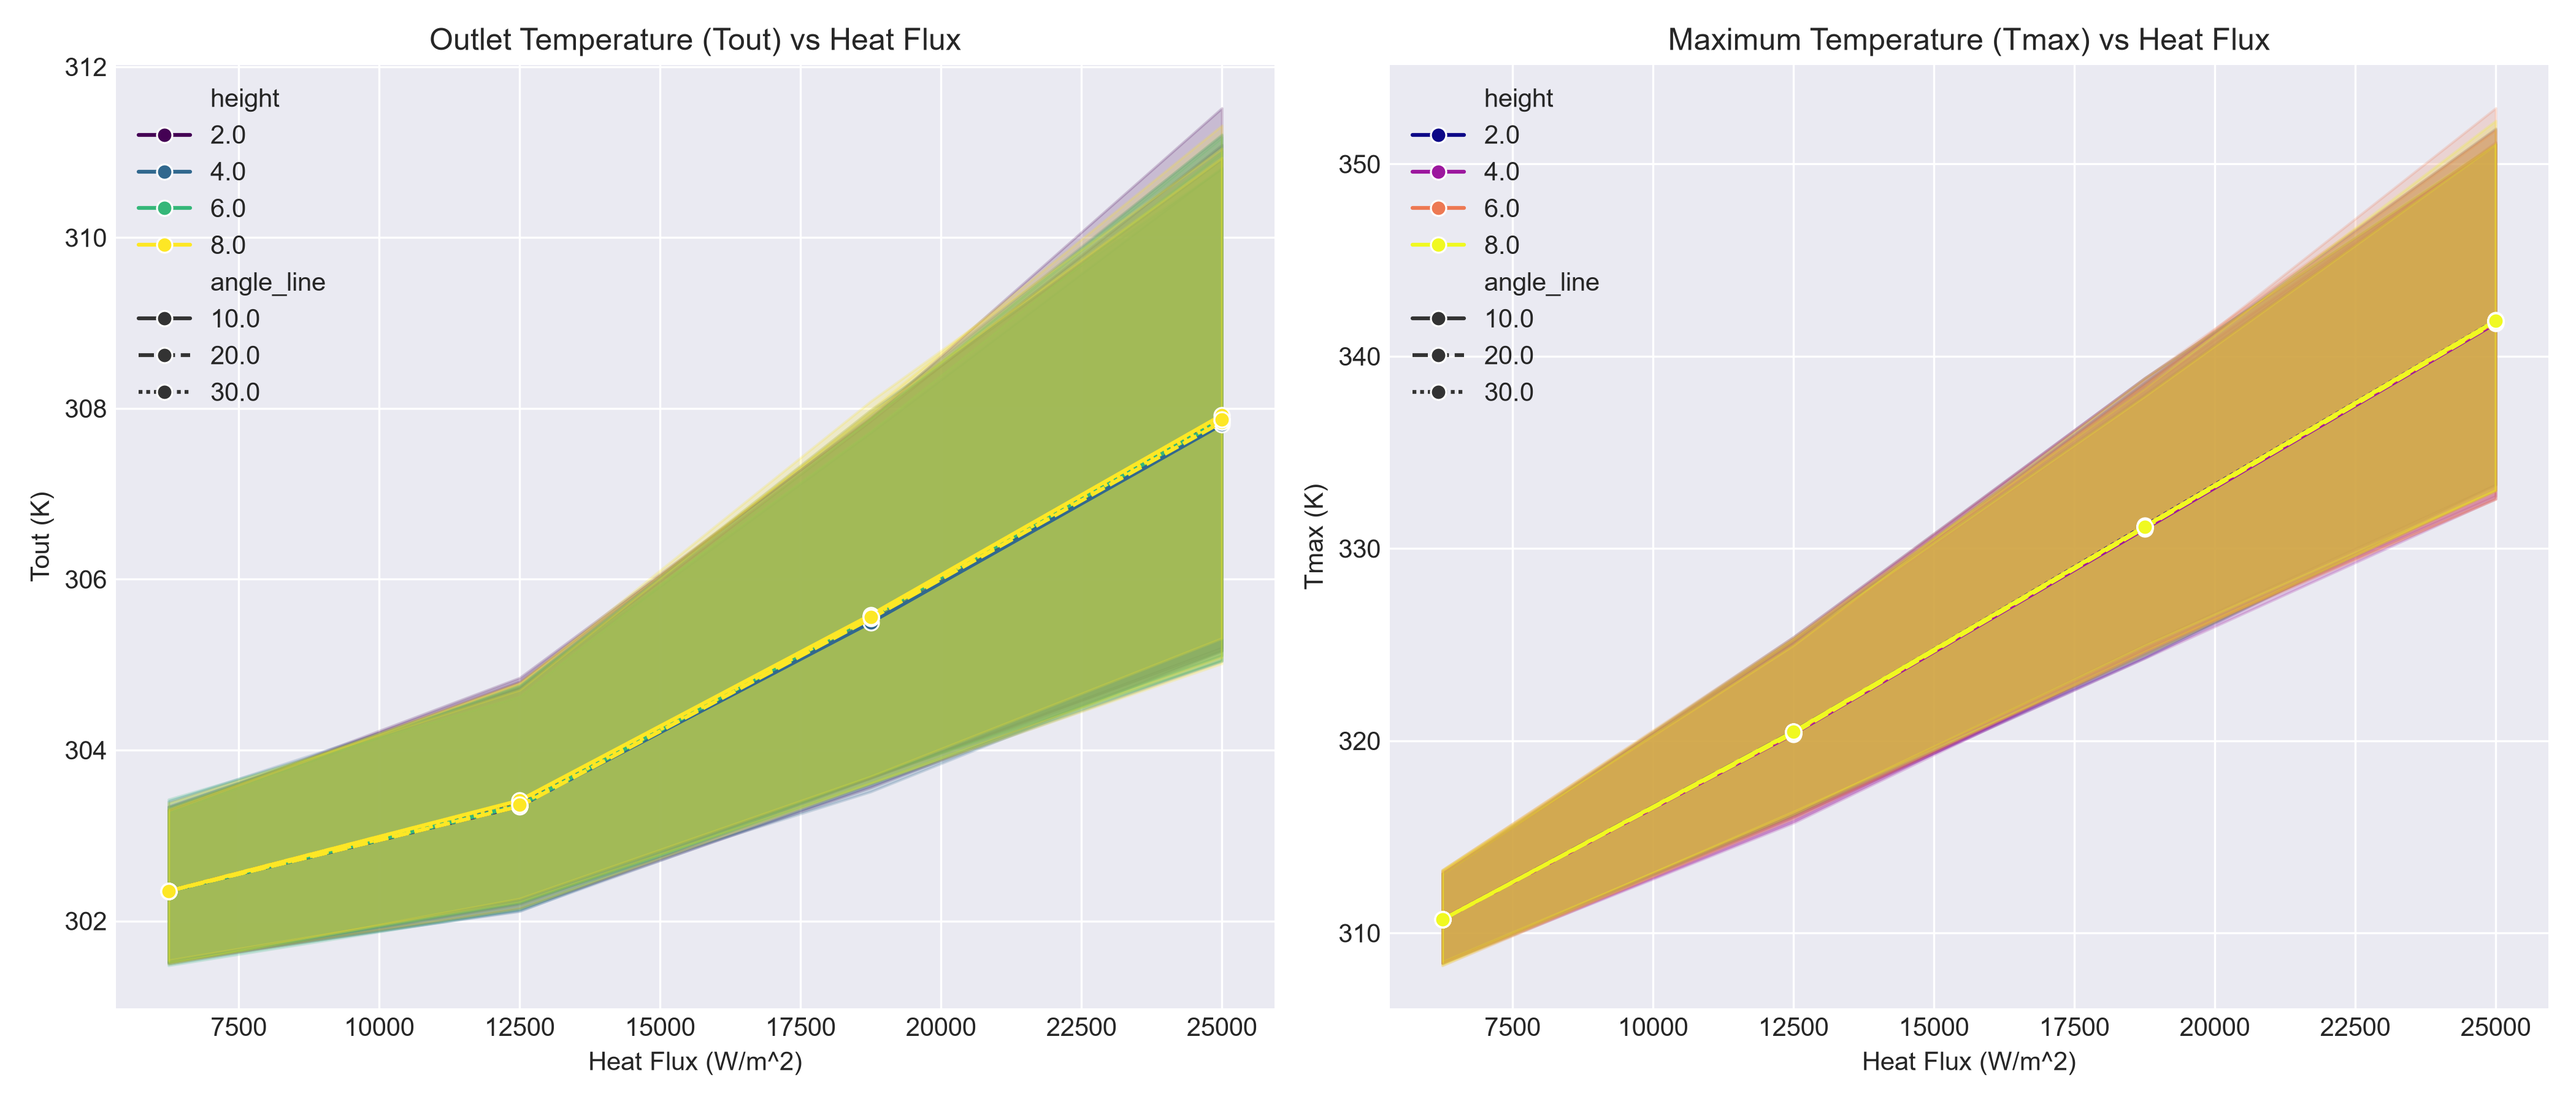
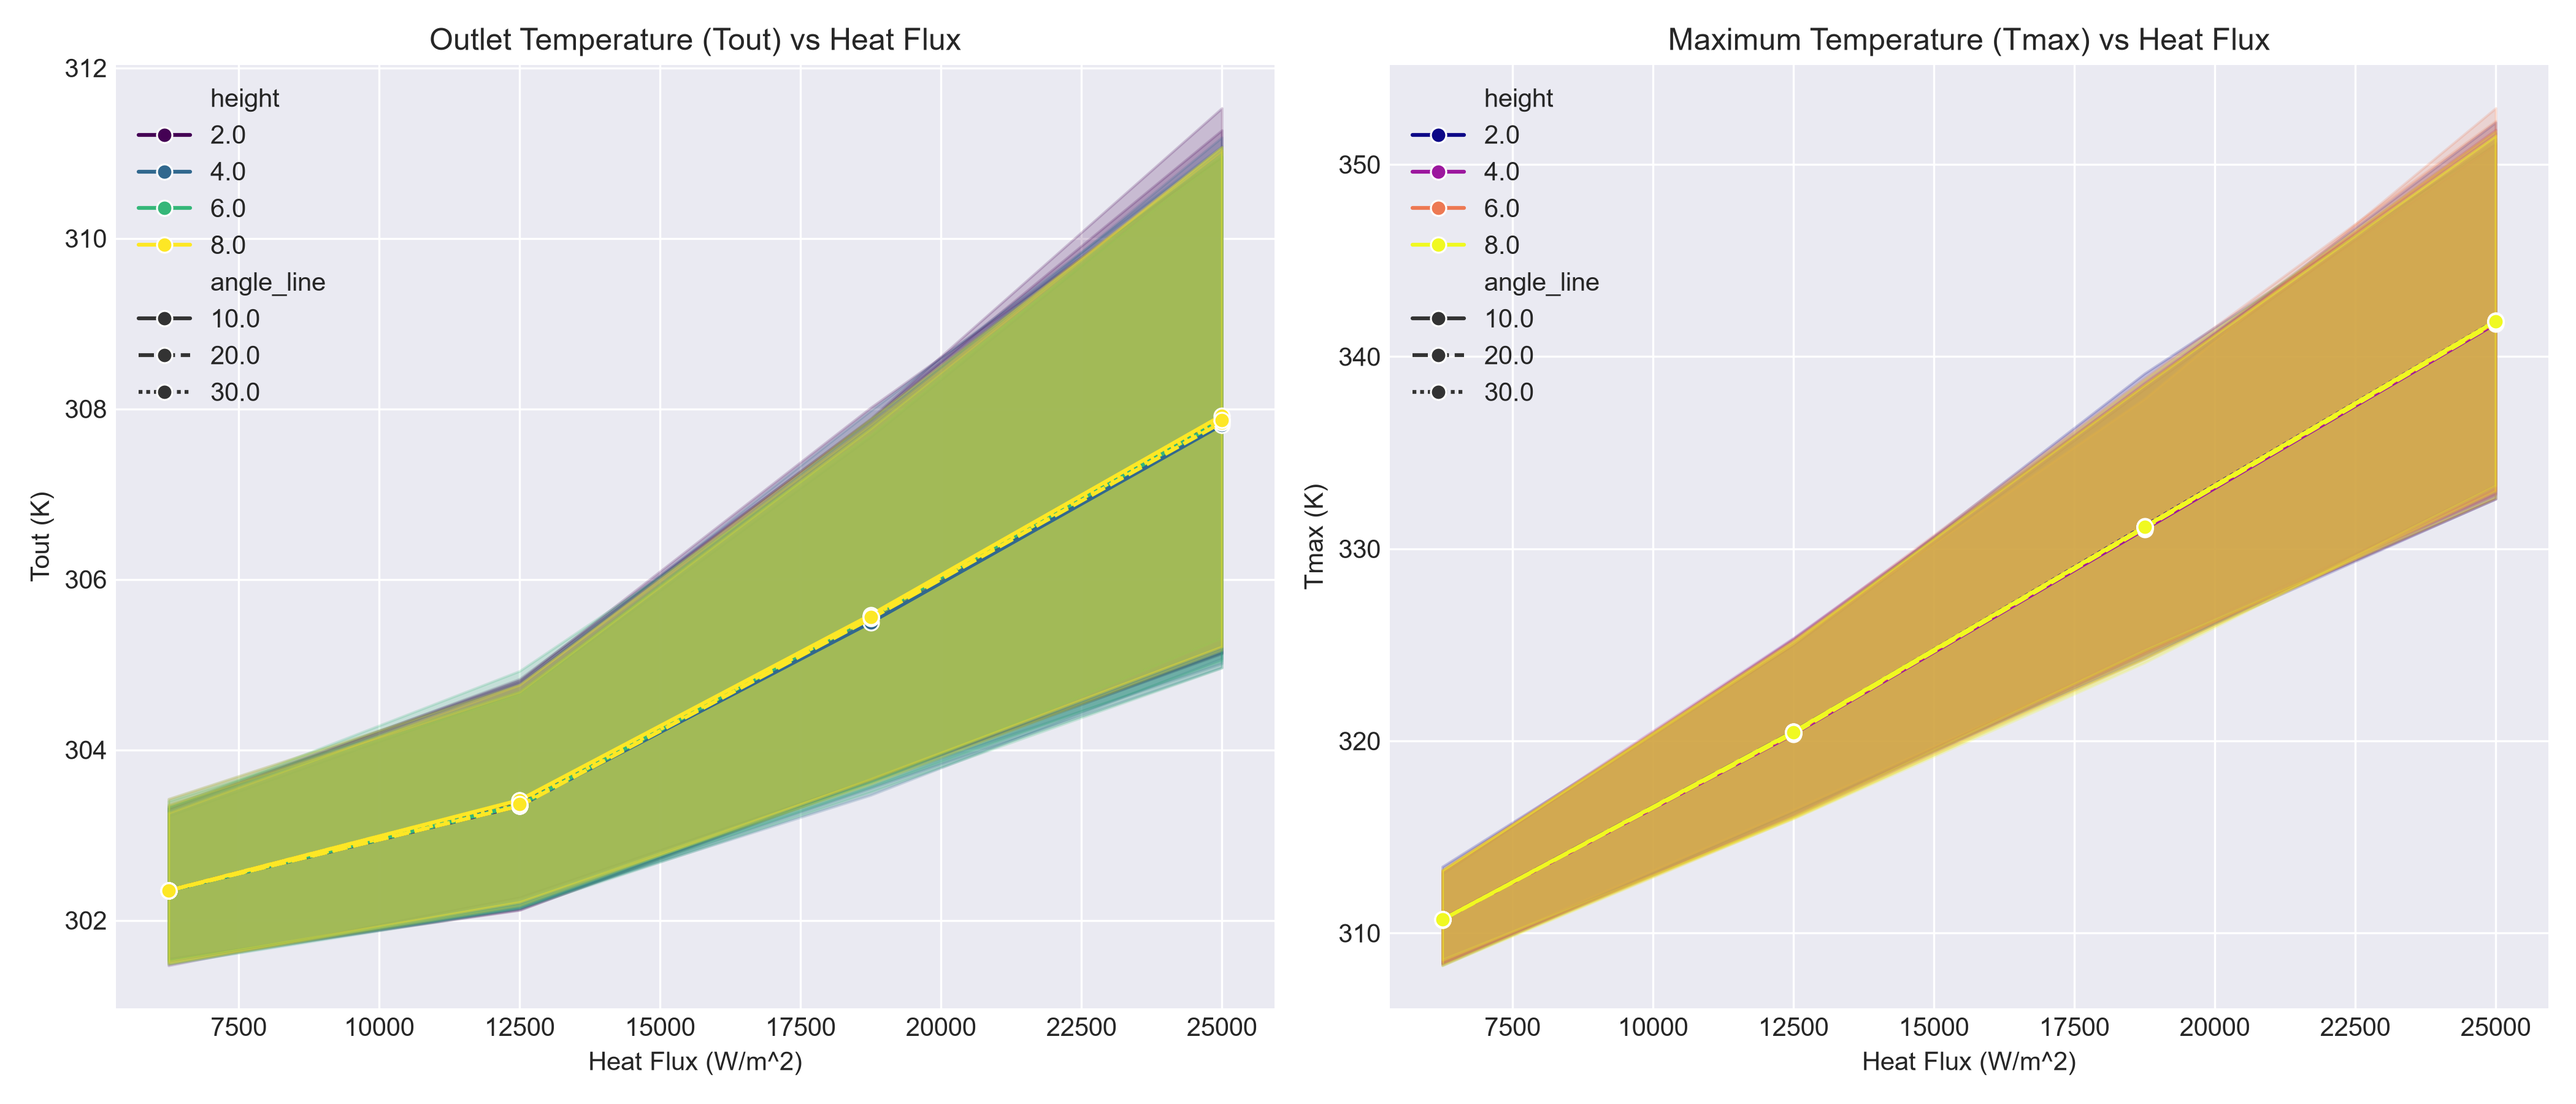
updated the analysis.py for appropriate metrics

diff --git a/ML/analysis.py b/ML/analysis.py
@@ -1,11 +1,14 @@
 import re
+import glob
 from pathlib import Path
 import pandas as pd
-import matplotlib.pyplot as plt
-import seaborn as sns
 
-# Import your custom manager and config architecture
-from csv_manager import CSVManager  # (Assuming your CSVManager class is saved in csv_manager.py)
+# Import your custom manager and config architecture if available
+try:
+    from csv_manager import CSVManager  
+except ImportError:
+    CSVManager = None
+
 try:
     import config
 except ImportError:
@@ -22,113 +25,129 @@ def parse_filename(filename):
         version, angle_ground, height, angle_line = match.groups()
         return {
             "version": int(version),
-            "angle_ground": float(angle_ground),     # Angle with the ground
-            "height": float(height),                 # Height of the delta winglet
-            "angle_line": float(angle_line)          # Angle with a straight line
+            "angle_ground": float(angle_ground),     
+            "height": float(height),                 
+            "angle_line": float(angle_line)          
         }
     return None
 
-def analyze_remaining_reports(output_dir="analysis_outputs"):
-    """
-    Uses CSVManager to fetch unanalyzed reports, processes them, 
-    and updates the completion status in status.json.
-    """
+def analyze_maximum_cooling(output_dir="analysis_outputs"):
     out_path = Path(output_dir)
     out_path.mkdir(parents=True, exist_ok=True)
     
-    # Initialize your architecture's manager
-    manager = CSVManager()
-    remaining_csvs = manager.get_remaining_csvs()
+    # 1. Resolve and Load Baseline Data
+    if config and hasattr(config, "COMPILED_CSV_DIR"):
+        baseline_path = config.COMPILED_CSV_DIR / "csv_results_Results_version_4_baseline.csv"
+    else:
+        baseline_path = Path("csv_results_Results_version_4_baseline.csv")
+        if not baseline_path.exists():
+            baseline_path = Path(r"C:\Users\Kaushal Goel\Documents\CFD-automation-ml\colloq v4\Compiled_CSV_Reports\csv_results_Results_version_4_baseline.csv")
 
-    if not remaining_csvs:
-        print("No new CSV files to analyze. All files have already been processed according to status.json.")
+    if not baseline_path.exists():
+        print(f"Error: Baseline file not found at '{baseline_path}'.")
         return None
+    
+    baseline_df = pd.read_csv(baseline_path)
+    baseline_df.columns = [c.strip() for c in baseline_df.columns]
+    
+    base_dp = baseline_df["PressureDrop (Pa)"].mean()
+    base_tout = baseline_df["Tout (K)"].mean()
 
-    print(f"Found {len(remaining_csvs)} new CSV file(s) to process via CSVManager.")
+    print(f"--- Baseline Averages (v4) ---")
+    print(f"Mean Pressure Drop : {base_dp:.2f} Pa")
+    print(f"Mean Tout          : {base_tout:.2f} K\n")
+
+    # 2. Fetch Variant Reports
+    variant_files = []
+    if CSVManager:
+        try:
+            manager = CSVManager()
+            variant_files = manager.get_remaining_csvs()
+        except Exception:
+            pass
+
+    if not variant_files:
+        search_dir = baseline_path.parent if baseline_path.exists() else Path(".")
+        variant_files = list(search_dir.glob("csv_results_*.csv"))
+        if not variant_files:
+            variant_files = [Path(f) for f in glob.glob("csv_results_*.csv")]
+
     all_data = []
-
-    for file_path in remaining_csvs:
-        # file_path returned from manager might be a Path object or string
+    for file_path in variant_files:
         file_path = Path(file_path)
+        
+        # FIX: Only skip the exact v4 baseline file, allowing variants that contain 'baseline' in their name
+        if "results_version_4_baseline" in file_path.name.lower():
+            continue
+            
         params = parse_filename(file_path.name)
         if not params:
-            print(f"Skipping {file_path.name}: Filename parameters could not be parsed.")
             continue
         
         try:
             df = pd.read_csv(file_path)
-            # Inject parsed geometric parameters into the dataframe
+            df.columns = [c.strip() for c in df.columns]
+            
             for key, val in params.items():
                 df[key] = val
             df["filename"] = file_path.name
             all_data.append(df)
             
-            # Mark complete in your architecture's status tracking
-            manager.mark_csv_complete(file_path.name)
-            print(f"Processed and marked complete: {file_path.name}")
-            
+            if CSVManager and 'manager' in locals():
+                try:
+                    manager.mark_csv_complete(file_path.name)
+                except Exception:
+                    pass
         except Exception as e:
             print(f"Error reading {file_path.name}: {e}")
 
     if not all_data:
-        print("No valid data compiled from the remaining files.")
+        print("No valid variant data found to analyze.")
         return None
 
     master_df = pd.concat(all_data, ignore_index=True)
 
-    print("\n========================================")
-    print("   NEWLY PROCESSED DATASET SUMMARY      ")
-    print("========================================")
-    summary_cols = ["Velocity (m/s)", "Heat Flux (W/m2)", "Tout (K)", "Tmax (K)", "PressureDrop (Pa)"]
-    print(master_df[summary_cols].describe())
+    # 3. Find Configurations that Give Maximum Cooling at Each Velocity
+    print("\n========================================================")
+    print("      MAXIMUM COOLING CONFIGURATIONS PER VELOCITY       ")
+    print("========================================================")
+    
+    optimal_configs = []
+    for vel, group in master_df.groupby("Velocity (m/s)"):
+        best_row = group.loc[group["Tmax (K)"].idxmin()]
+        optimal_configs.append(best_row)
 
-    # Generate Visualizations
-    plt.style.use('seaborn-v0_8-darkgrid' if 'seaborn-v0_8-darkgrid' in plt.style.available else 'default')
+    optimal_df = pd.DataFrame(optimal_configs)
     
-    # 1. Pressure Drop vs Velocity across Configurations
-    plt.figure(figsize=(10, 6))
-    sns.lineplot(
-        data=master_df, 
-        x="Velocity (m/s)", 
-        y="PressureDrop (Pa)", 
-        hue="height", 
-        style="angle_ground", 
-        marker="o",
-        palette="tab10"
-    )
-    plt.title("Pressure Drop vs. Velocity across Winglet Geometries")
-    plt.xlabel("Velocity (m/s)")
-    plt.ylabel("Pressure Drop (Pa)")
-    plt.legend(title="Height & Angle (Ground)", bbox_to_anchor=(1.05, 1), loc='upper left')
-    plt.tight_layout()
-    plt.savefig(out_path / "pressure_drop_analysis_new.png", dpi=300)
-    plt.close()
+    summary_columns = [
+        "Velocity (m/s)", "angle_ground", "height", "angle_line", 
+        "Tmax (K)", "Tout (K)", "PressureDrop (Pa)", "filename"
+    ]
+    optimal_summary = optimal_df[[c for c in summary_columns if c in optimal_df.columns]]
+    print(optimal_summary.to_string(index=False))
+    
+    optimal_csv_path = out_path / "optimal_cooling_configurations.csv"
+    optimal_summary.to_csv(optimal_csv_path, index=False)
+    print(f"\n[Saved] Optimal configurations saved to: {optimal_csv_path.resolve()}")
 
-    # 2. Thermal Performance: Tout and Tmax vs Heat Flux
-    fig, axes = plt.subplots(1, 2, figsize=(14, 6))
+    # 4. Calculate Overall Average Percentage Decreases Compared to Baseline
+    print("\n========================================================")
+    print("      OVERALL AVERAGE PERCENTAGE IMPROVEMENTS           ")
+    print("========================================================")
     
-    sns.lineplot(
-        ax=axes[0], data=master_df, x="Heat Flux (W/m2)", y="Tout (K)", 
-        hue="height", style="angle_line", marker="o", palette="viridis"
-    )
-    axes[0].set_title("Outlet Temperature (Tout) vs Heat Flux")
-    axes[0].set_xlabel("Heat Flux (W/m^2)")
-    axes[0].set_ylabel("Tout (K)")
-    
-    sns.lineplot(
-        ax=axes[1], data=master_df, x="Heat Flux (W/m2)", y="Tmax (K)", 
-        hue="height", style="angle_line", marker="o", palette="plasma"
-    )
-    axes[1].set_title("Maximum Temperature (Tmax) vs Heat Flux")
-    axes[1].set_xlabel("Heat Flux (W/m^2)")
-    axes[1].set_ylabel("Tmax (K)")
-    
-    plt.tight_layout()
-    plt.savefig(out_path / "thermal_performance_analysis_new.png", dpi=300)
-    plt.close()
+    mean_variant_dp = master_df["PressureDrop (Pa)"].mean()
+    mean_variant_tout = master_df["Tout (K)"].mean()
+    mean_variant_tmax = master_df["Tmax (K)"].mean()
 
-    print(f"\n[Success] Analysis plots successfully saved to: {out_path.resolve()}")
-    return master_df
+    dp_decrease_pct = ((base_dp - mean_variant_dp) / base_dp) * 100
+    tout_decrease_pct = ((base_tout - mean_variant_tout) / base_tout) * 100
+
+    print(f"Average Pressure Drop Decrease : {dp_decrease_pct:.2f}% (Variant: {mean_variant_dp:.2f} Pa vs Baseline: {base_dp:.2f} Pa)")
+    print(f"Average Tout Decrease          : {tout_decrease_pct:.2f}% (Variant: {mean_variant_tout:.2f} K vs Baseline: {base_tout:.2f} K)")
+    print(f"Average Peak Temp (Tmax)       : {mean_variant_tmax:.2f} K")
+    print("========================================================")
+
+    return optimal_df
 
 if __name__ == "__main__":
-    analyze_remaining_reports()
+    analyze_maximum_cooling()
